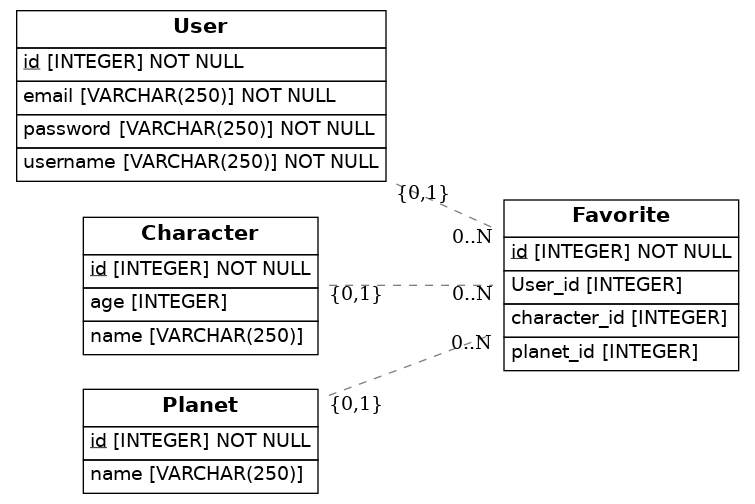
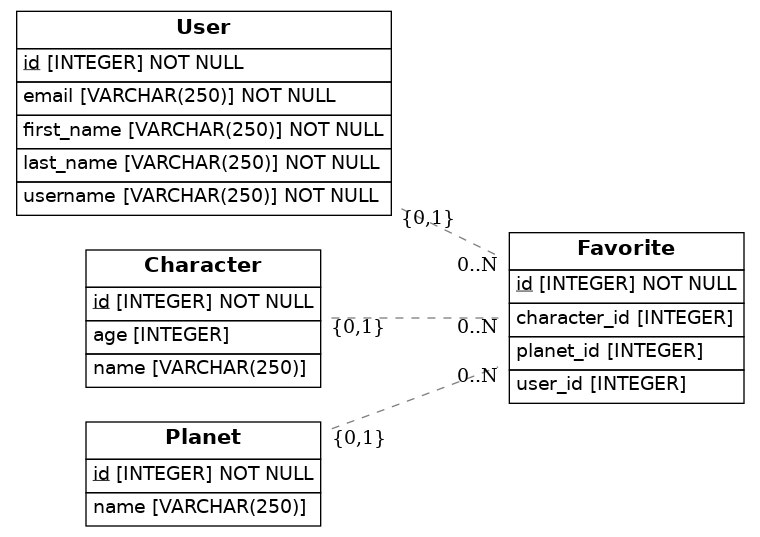
exercise-starwars-data-modeling

Changed region(s): [[0.0, 0.0, 1.0, 0.9821], [0.5179, 0.7143, 0.5788, 0.744], [0.4874, 0.744, 0.5179, 0.7738]]

diff --git a/src/models.py b/src/models.py
@@ -13,18 +13,9 @@ class User(Base):
     # Notice that each column is also a normal Python instance attribute.
     id = Column(Integer, primary_key=True)
     username = Column(String(250), nullable=False)
+    first_name = Column(String(250), nullable=False)
+    last_name = Column(String(250), nullable=False)
     email = Column(String(250), nullable=False)
-    password = Column(String(250), nullable=False)
-
-
-class Favorite(Base):
-    __tablename__ = 'Favorite'
-    # Here we define columns for the table address.
-    # Notice that each column is also a normal Python instance attribute.
-    id = Column(Integer, primary_key=True)
-    User_id = Column(Integer, ForeignKey('User.id'))
-    character_id = Column(Integer, ForeignKey('Character.id'))
-    planet_id = Column(Integer, ForeignKey('Planet.id'))
 
 class Character(Base):
     __tablename__ = 'Character'
@@ -40,6 +31,20 @@ class Planet(Base):
     # Notice that each column is also a normal Python instance attribute.
     id = Column(Integer, primary_key=True)
     name = Column(String(250))
+
+
+class Favorite(Base):
+    __tablename__ = 'Favorite'
+    # Here we define columns for the table address.
+    # Notice that each column is also a normal Python instance attribute.
+    id = Column(Integer, primary_key=True)
+    user_id = Column(Integer, ForeignKey('User.id'))
+    user = relationship(User)
+    character_id = Column(Integer, ForeignKey('Character.id'))
+    character = relationship(Character)
+    planet_id = Column(Integer, ForeignKey('Planet.id'))
+    planet = relationship(Planet)
+
 
     def to_dict(self):
         return {}
